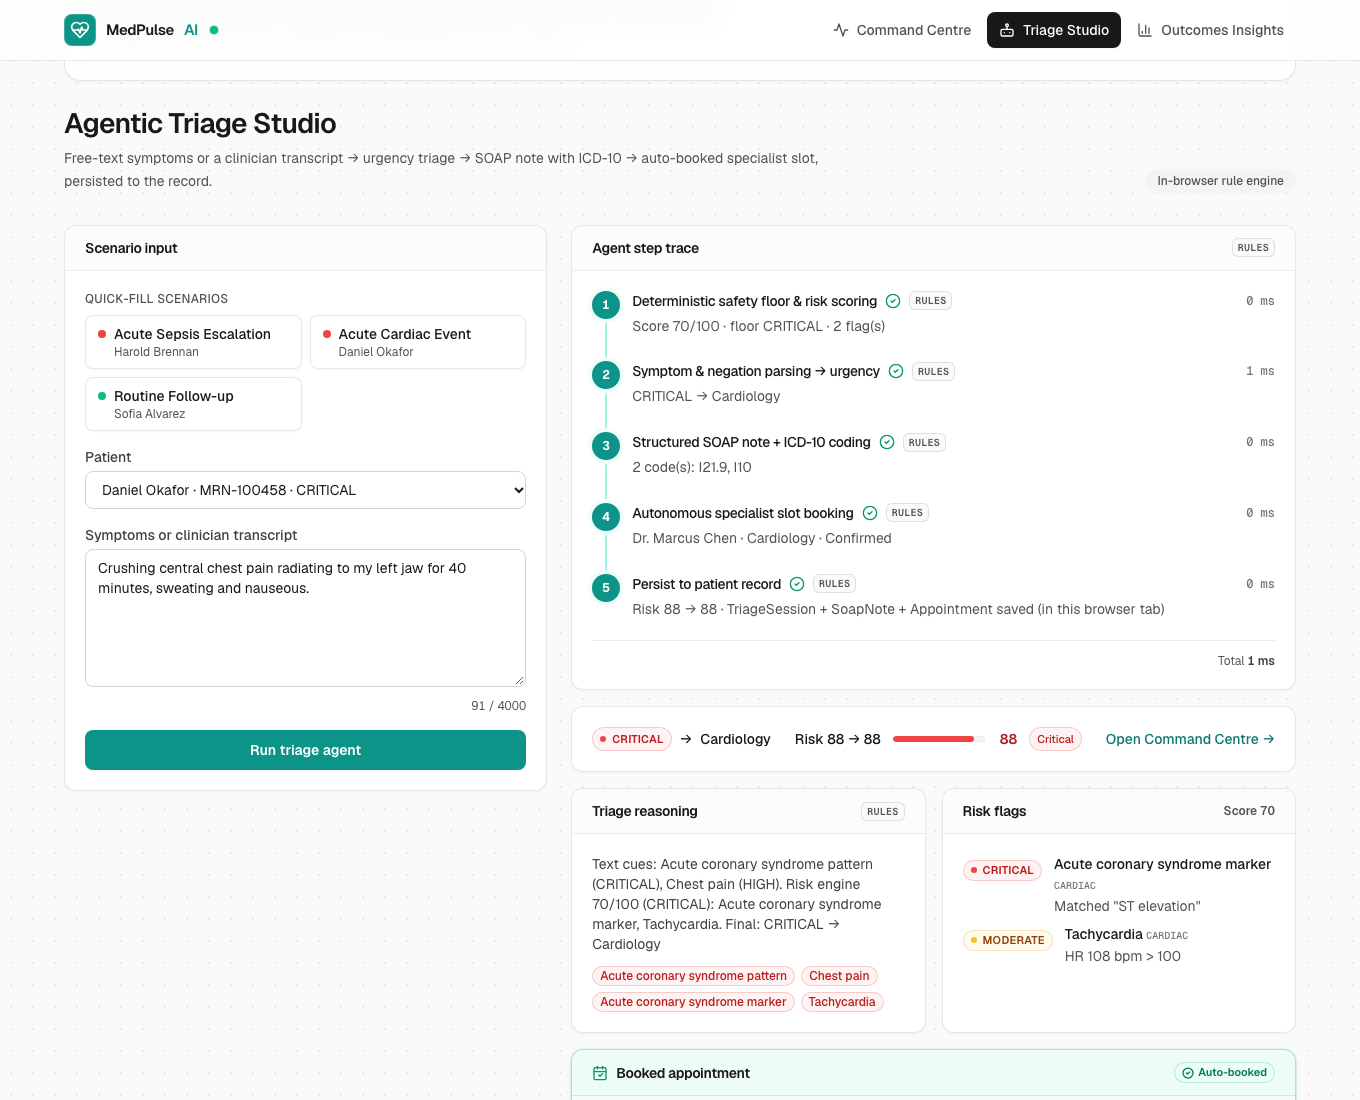
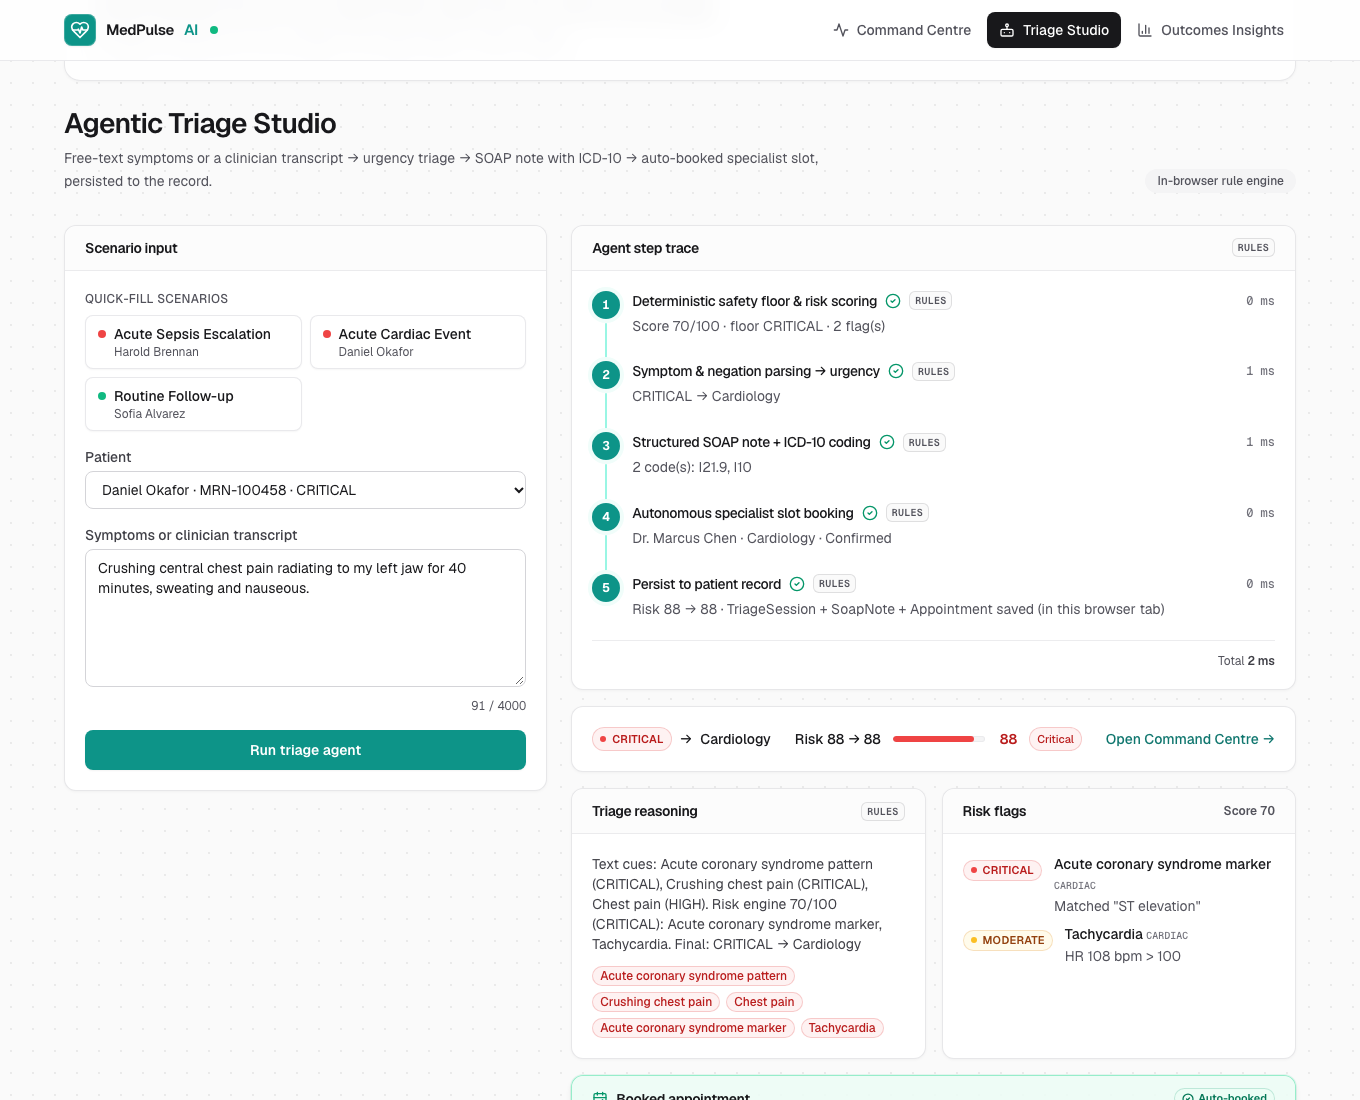
Triage "crushing chest pain" as CRITICAL on its own
"Crushing" is a classic ACS descriptor; previously it needed a second
symptom (radiation, sweating, nausea) to reach CRITICAL, so
"no fever and crushing chest pain" landed at HIGH. Mirrored in the
docs/ demo (parity re-checked), added a unit test, refreshed screenshots.

Changed region(s): [[0.4324, 0.7727, 0.6485, 1.0], [0.8647, 0.9582, 0.9574, 1.0]]

diff --git a/docs/index.html b/docs/index.html
@@ -186,6 +186,7 @@ function evaluateRisk(vitals, findings = []) {
 const cue = (level, department, label, ...tests) => ({ level, department, label, tests });
 const CUES = [
   cue("CRITICAL", "Cardiology", "Acute coronary syndrome pattern", /chest (pain|pressure|tightness)|crushing/i, /radiat|jaw|left arm|sweat|diaphore|nause|short of breath/i),
+  cue("CRITICAL", "Cardiology", "Crushing chest pain", /crushing/i, /chest/i),
   cue("CRITICAL", "Neurology", "Stroke warning signs (FAST)", /facial droop|slurred speech|one-sided weakness|arm weakness|sudden confusion and weakness/i),
   cue("CRITICAL", "Critical Care", "Suspected sepsis", /confus|drowsy|altered/i, /fever|febrile|rigors|chills/i),
   cue("CRITICAL", "Emergency Medicine", "Anaphylaxis", /anaphyla|throat (swelling|closing)|tongue swelling/i),

diff --git a/src/lib/text.test.ts b/src/lib/text.test.ts
@@ -42,6 +42,13 @@ test("negation scope ends at 'and', so a following positive symptom still escala
   assert.equal(t.department, "Cardiology");
 });
 
+test("bare 'no fever and crushing chest pain' still triages CRITICAL", () => {
+  const t = ruleTriage("no fever and crushing chest pain", noRisk);
+  assert.equal(t.level, "CRITICAL");
+  assert.equal(t.department, "Cardiology");
+  assert.notEqual(ruleTriage("no chest pain, crushing fatigue", noRisk).level, "CRITICAL");
+});
+
 test("plain-language breathing failure triages CRITICAL", () => {
   for (const text of ["I cannot breathe", "unable to breathe, lips going blue"]) {
     assert.equal(ruleTriage(text, noRisk).level, "CRITICAL", text);

diff --git a/src/lib/triage.ts b/src/lib/triage.ts
@@ -34,6 +34,8 @@ const CUES: Cue[] = [
   cue("CRITICAL", "Cardiology", "Acute coronary syndrome pattern",
     /chest (pain|pressure|tightness)|crushing/i,
     /radiat|jaw|left arm|sweat|diaphore|nause|short of breath/i),
+  // "Crushing" chest pain is a classic ACS descriptor on its own; over-triage beats a missed MI.
+  cue("CRITICAL", "Cardiology", "Crushing chest pain", /crushing/i, /chest/i),
   cue("CRITICAL", "Neurology", "Stroke warning signs (FAST)",
     /facial droop|slurred speech|one-sided weakness|arm weakness|sudden confusion and weakness/i),
   cue("CRITICAL", "Critical Care", "Suspected sepsis", /confus|drowsy|altered/i, /fever|febrile|rigors|chills/i),

diff --git a/README.md b/README.md
@@ -86,7 +86,7 @@ More detail: [ARCHITECTURE.md](ARCHITECTURE.md).
 2. **The LLM can only escalate.** Final urgency = `max(rule level, LLM level)`, and the department follows the
    LLM only when it escalates. Unit-tested in `src/lib/triage.test.ts`.
 3. **Negation-aware.** "no wheeze today" is ignored and shown in the trace. Negation stops at a comma, "but"
-   or "and", so "no fever and crushing chest pain radiating to my left arm" still triages CRITICAL.
+   or "and", so "no fever and crushing chest pain" still triages CRITICAL.
 4. **Explainable.** Every flag carries its triggering value, and every agent step shows its source
    (`RULES` or `LLM`) and timing.
 5. **Safe failure.** Invalid input returns 400, an unknown patient returns 404, and any LLM failure falls back to
